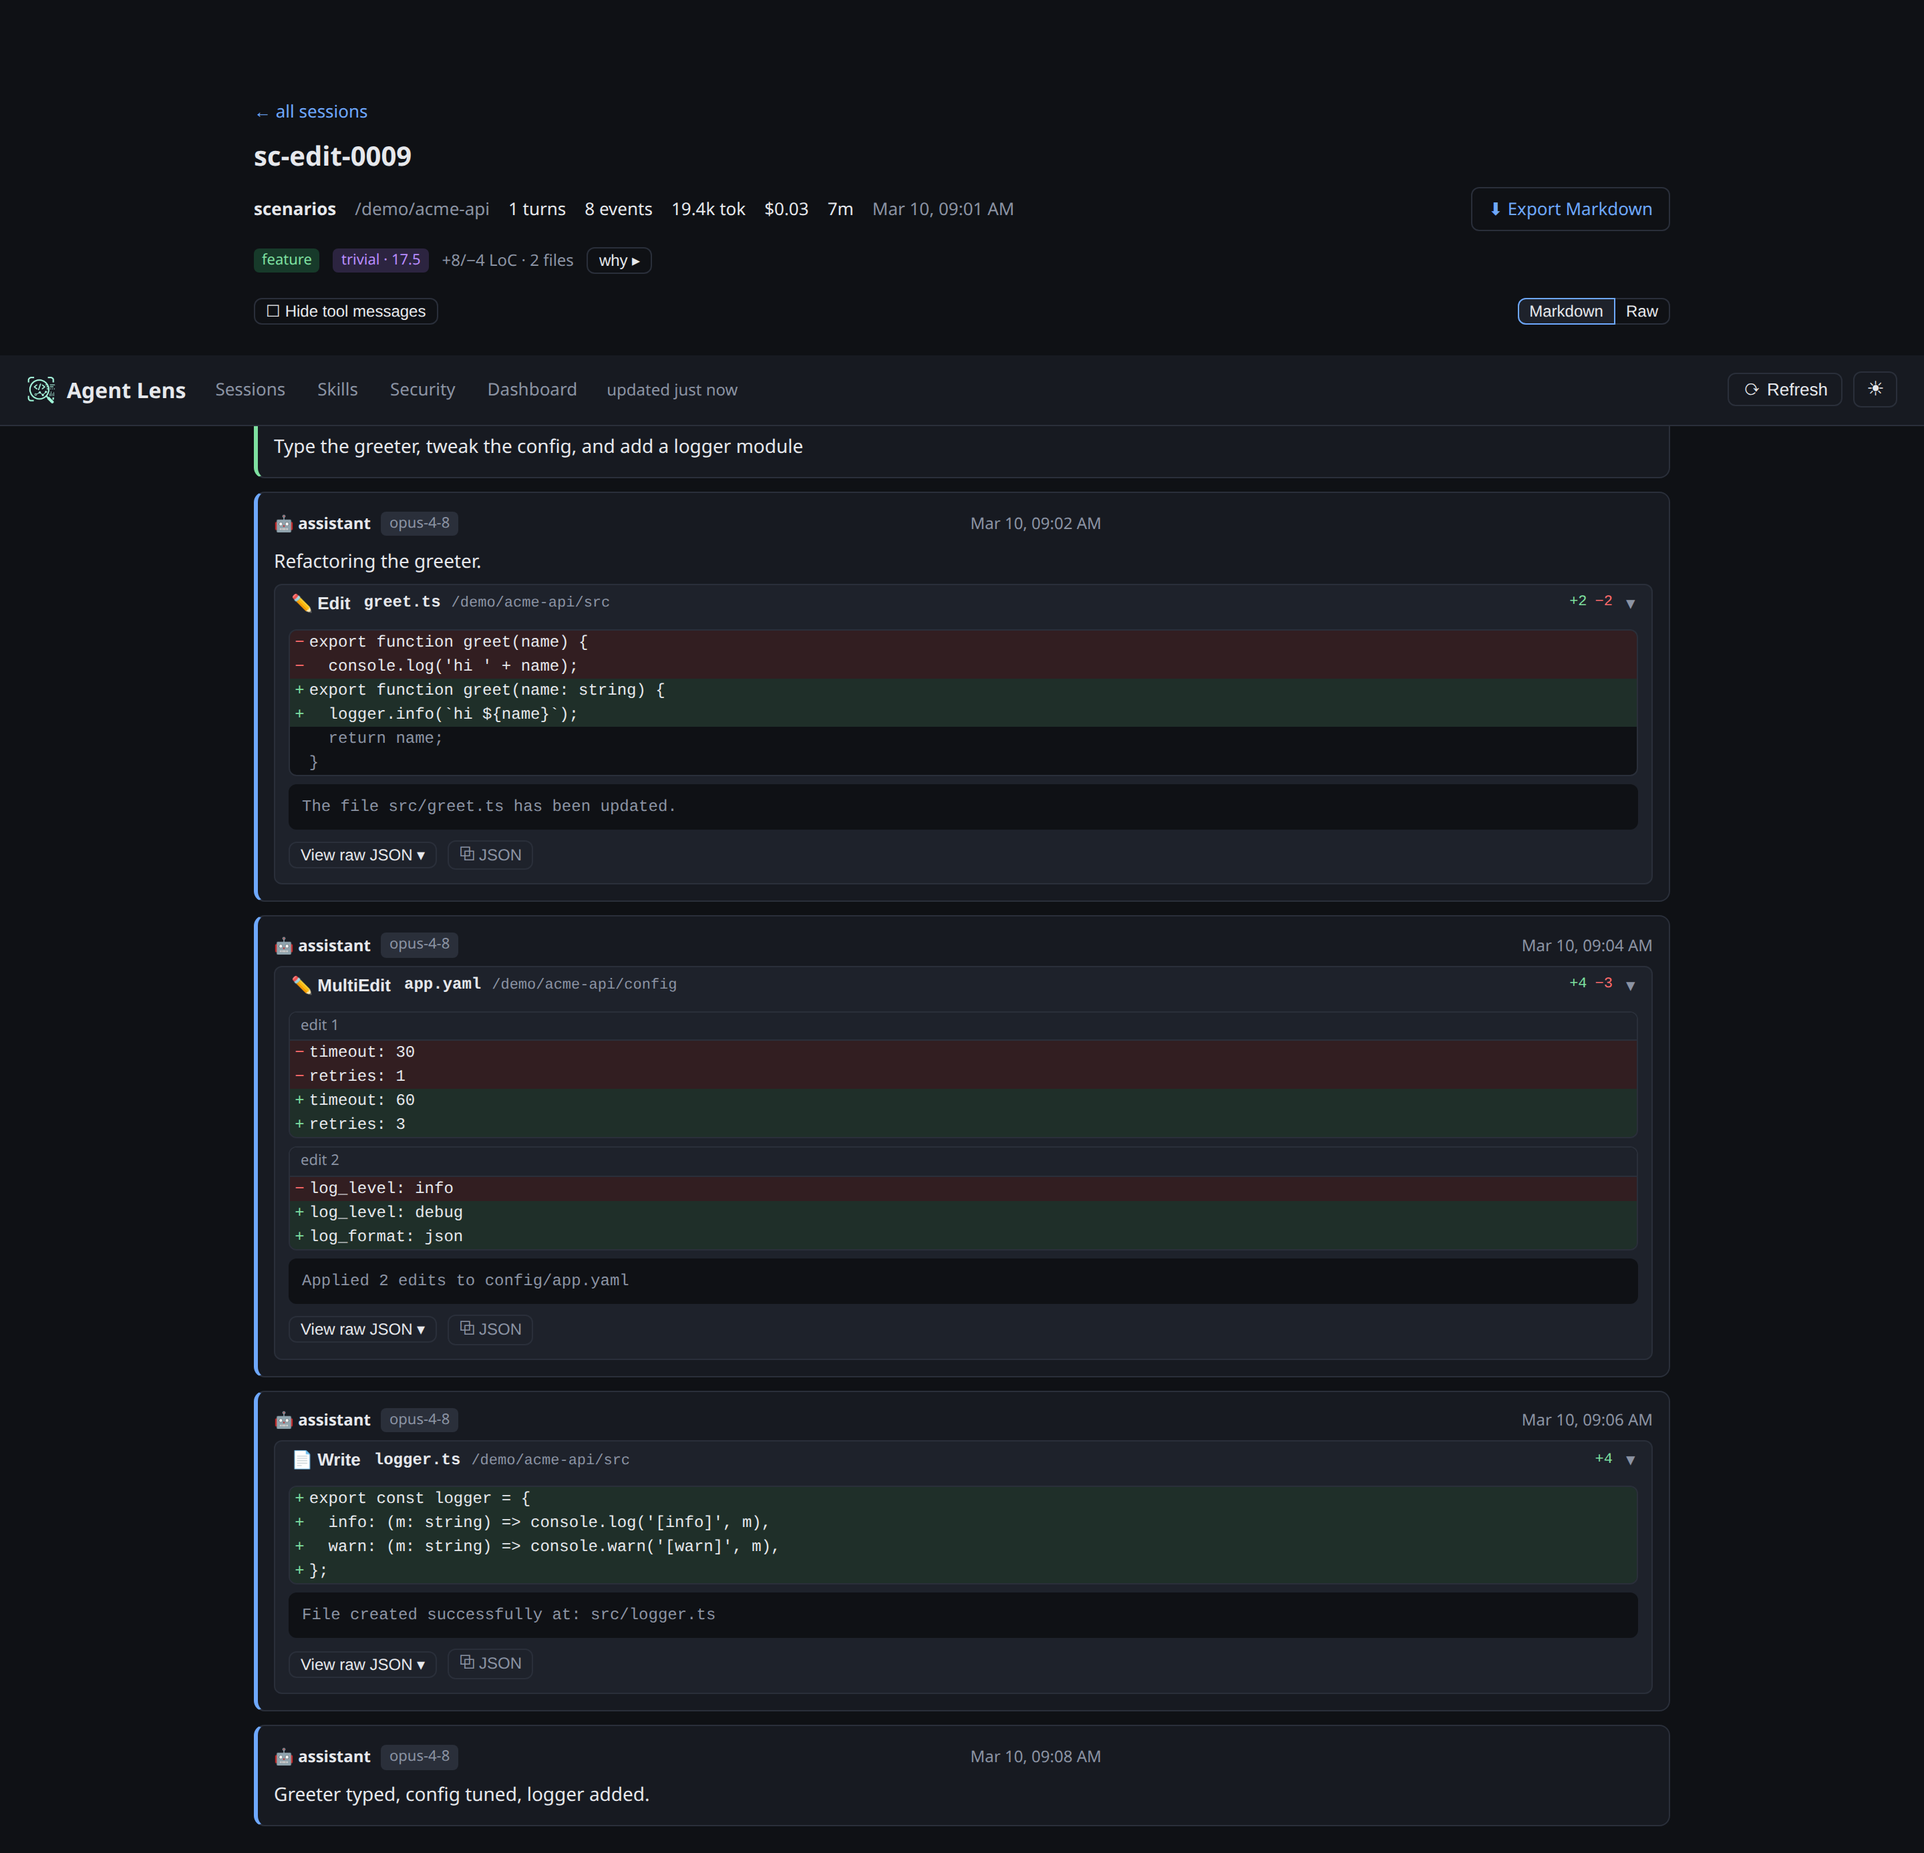
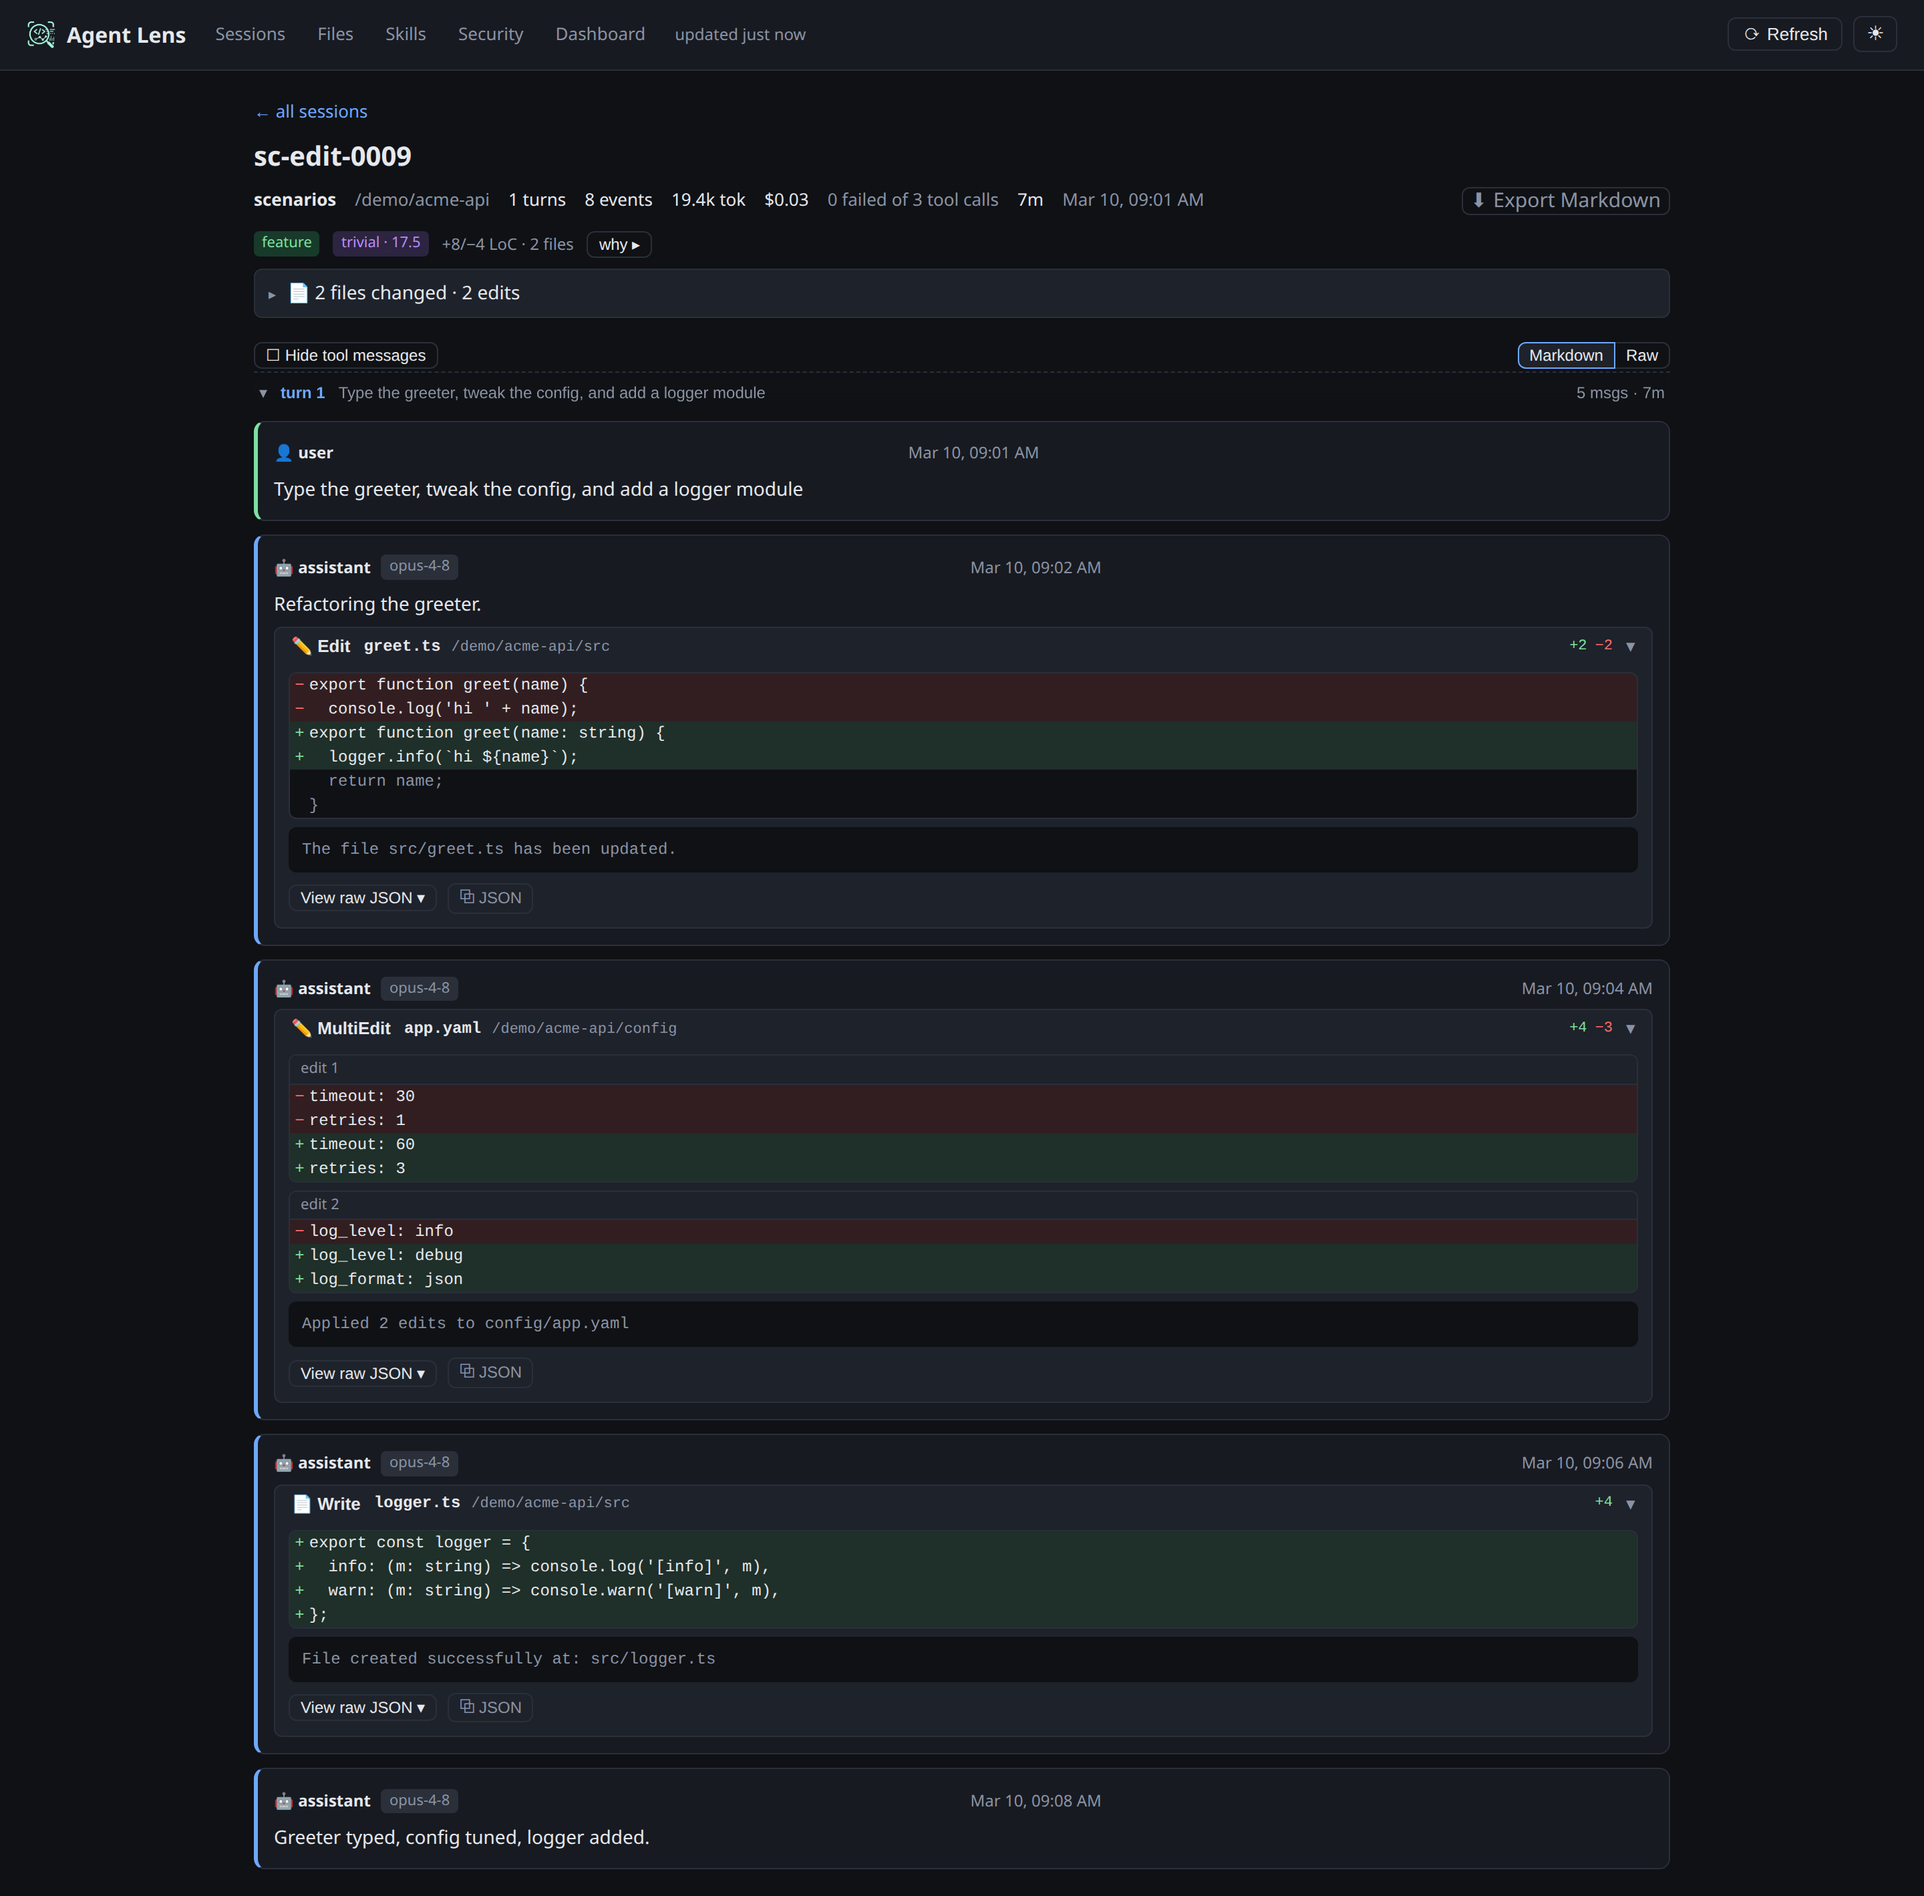
fix: README showed a broken screenshot and claims its images did not back
Three things a first-time reader would have hit, in the page that is the
project's first impression.

1. The session-transcript screenshot had the nav bar baked into the MIDDLE of
   the image. `.topbar` is `position: sticky`, and a fullPage capture renders a
   sticky element wherever the current scroll offset leaves it — expandTools()
   clicks its way down the page, and every click scrolls its target into view.
   A capture artifact, not a CSS bug; the live page was always fine.
   scripts/screenshots.mjs now scrolls home before each capture.

2. The prose promised "Edit/MultiEdit/Write as colored diffs, plans and
   AskUserQuestion as cards, workflow runs with a phase graph" directly above a
   screenshot showing none of them — only Bash. The diff screenshot already
   existed (step 4 writes docs/img/session-diff.png) and was simply never
   embedded, so the fix is to SHOW the claim rather than water it down. The
   callout now names only what genuinely is not pictured.

3. The "At a glance" ASCII mock's nav omitted Files — a page this same README
   documents as a feature two sections later.

All 7 PNGs are regenerated: the fullPage ones carried the sticky-bar artifact,
and every one predated the Files nav item, so the committed set no longer
matched the shipped UI.

diff --git a/README.md b/README.md
@@ -58,7 +58,7 @@ agent-lens-ingest: files=312 skipped=298 new_events=1840 malformed=0
 **3 · Browse** — a local dashboard + transcript browser on `127.0.0.1`:
 
 ```text
- ◐ Agent Lens    Sessions · Skills · Security · Dashboard    local agent session explorer
+ ◐ Agent Lens   Sessions · Files · Skills · Security · Dashboard   local agent session explorer
  ┌ tokens ──────┐ ┌ est. cost ───┐ ┌ sessions ────┐ ┌ cache read ──┐
  │ 128.5 M      │ │ $842.17      │ │ 312          │ │ 92.6 %       │
  └──────────────┘ └──────────────┘ └──────────────┘ └──────────────┘
@@ -133,12 +133,16 @@ complexity, tool, skill, and subagent fan-out:
 
 ![Agent Lens dashboard showing KPI cards (token breakdown, estimated cost, cache-read ratio, total tokens), tokens/cost/activity-over-time charts, and breakdown charts by model, task category, complexity band, tool frequency, skill activation, and subagent fan-out](docs/img/dashboard.png)
 
-**Session transcript** — turn-segmented, with purpose-built rendering per tool: Bash as a shell
-console (a `$` prompt per command, the description as a `#` caption, flag badges, multi-line output),
-`Edit`/`MultiEdit`/`Write` as colored `+`/`−` diffs, plans and `AskUserQuestion` as cards, and workflow
-runs with a phase graph:
+**Session transcript** — turn-segmented, with purpose-built rendering per tool. Here, `Bash` as a
+shell console: a `$` prompt per logical command (a heredoc's body correctly left unprefixed), the
+description as a `#` caption, `background` / `timeout` badges, and multi-line output:
 
 ![A Bash session rendered as a shell console: each command prefixed with a $ prompt (a heredoc's body correctly left unprefixed), the description as a # caption, background/timeout badges, and multi-line command output](docs/img/session-transcript.png)
+
+**File edits as diffs** — `Edit`, `MultiEdit`, and `Write` render as colored `+`/`−` hunks with the
+surrounding context kept, per-edit sections for a `MultiEdit`, and a per-tool line delta:
+
+![An Agent Lens transcript showing three file-editing tool calls rendered as colored diffs: an Edit on greet.ts with red minus and green plus lines, a MultiEdit on app.yaml split into two labeled edit hunks, and a Write of a new logger.ts shown entirely as additions, each with a +N/-N line count](docs/img/session-diff.png)
 
 **Sessions browser** — a filterable, full-text-searchable index across every collected source:
 
@@ -150,9 +154,8 @@ filters, and a "what & why" reference; findings also appear inline in the transc
 
 ![The Agent Lens security page: severity KPI tiles (critical/high/medium), a findings table listing each risky operation with its rule, framework anchor, evidence, and session, plus a risk-category reference accordion](docs/img/security.png)
 
-> ▶ The colored `Edit` diffs, plan / `AskUserQuestion` cards, the workflow phase graph, and the
-> classifier "why" panel are all best explored in the
-> **[live demo](https://swestash.github.io/agent-lens/)**.
+> ▶ Not pictured: plan and `AskUserQuestion` cards, the workflow phase graph, and the classifier
+> "why" panel — all best explored in the **[live demo](https://swestash.github.io/agent-lens/)**.
 
 ## How it works
 
